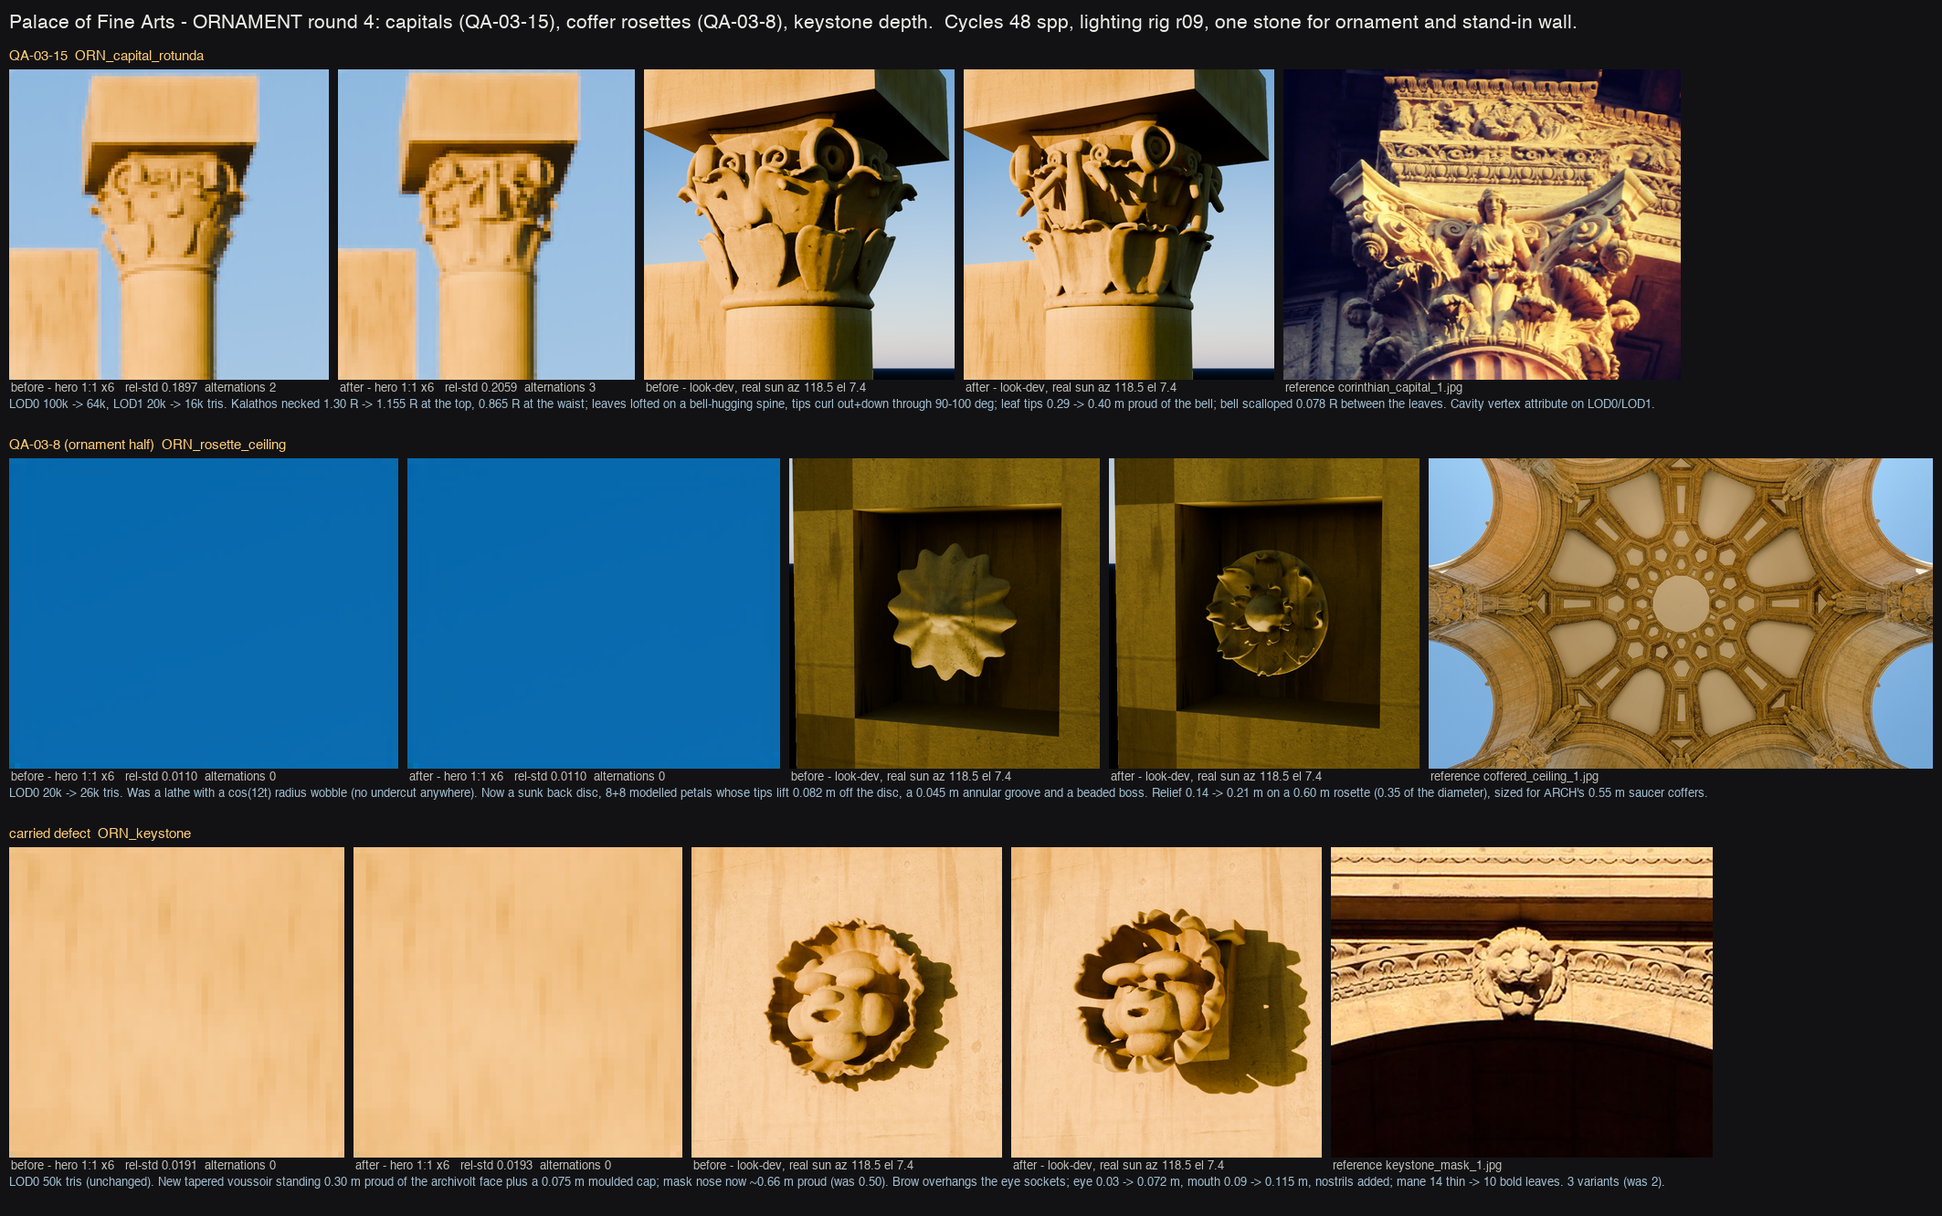
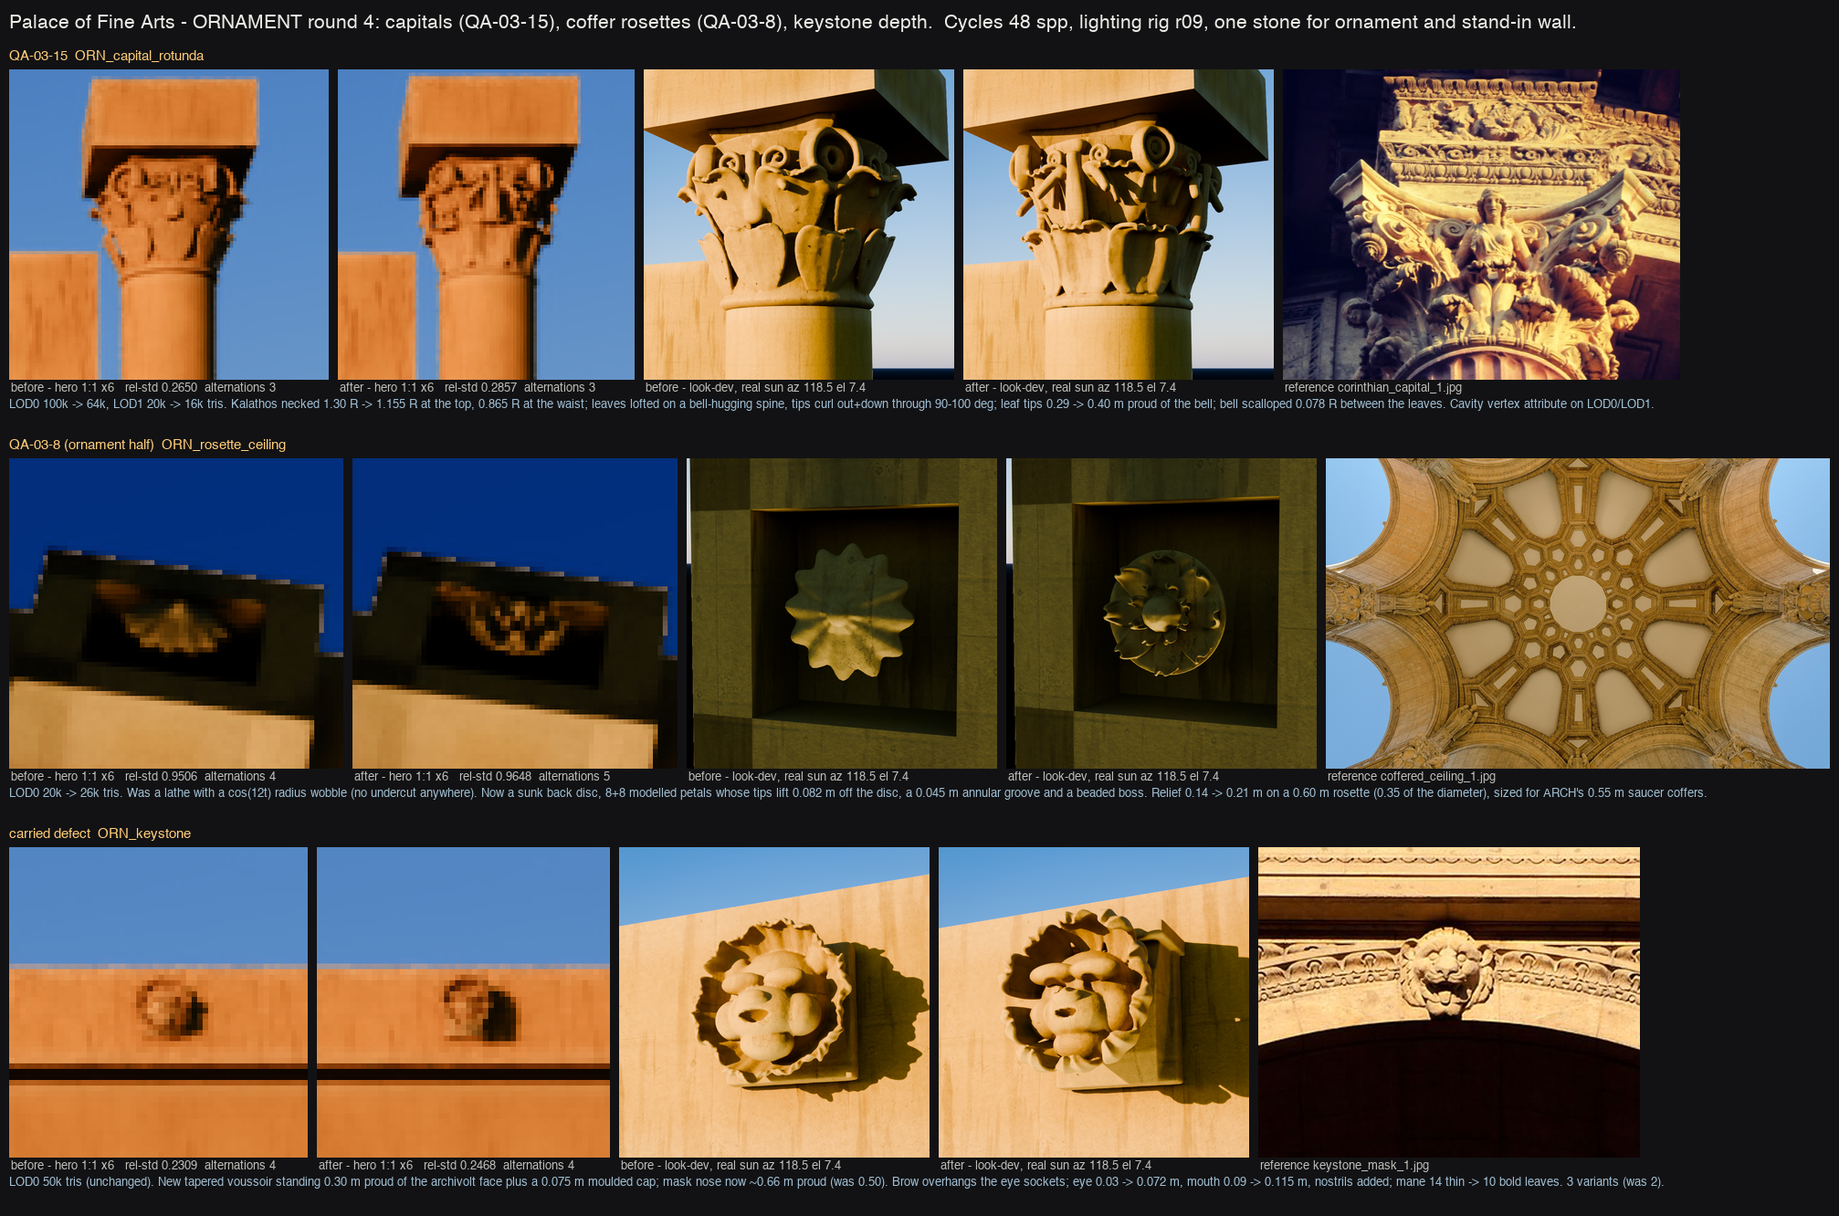
ORN round 4: sheet, tier metric, cavity attribute, notes; rosette socket orientation reported
Deliverables: renders/previews/ornament/orn4_sheet.png (before/after/ref for capitals, rosettes, keystones with
tri counts and hero-scale statistics), docs/ornament_notes.md round-4 section, docs/sockets.md ORN request.

Measured on 1:1 hero crops (Cycles 48 spp, rig r09, same session): capital 44x34 box rel-std 0.5721 -> 0.6202,
keystone 22x24 box 0.2571 -> 0.3311. ref169 capitals at the same 34-44 px scale measure 0.428-0.459.

Finding: all 24 SOCKET_rosette_ceiling_* have +Y exactly radially OUTWARD, so every rosette projects into the
masonry and none is visible at cam04. Proof render orn4_cam04_rosette_fix2.png; the two corrections the two
socket groups need are written up in docs/sockets.md. ORN owns neither architecture.blend nor build_master.py.

Claude-Session: https://claude.ai/code/session_015jPmouB3z4CH9ZykhZN2hQ

diff --git a/scripts/orn_r4_render.py b/scripts/orn_r4_render.py
@@ -81,7 +81,11 @@ def show(name, key, scene):
             scene.collection.objects.link(o)
         except RuntimeError:
             pass
-    o.matrix_world = socket_matrix(key)
+    M = socket_matrix(key)
+    loc, rot, sca = M.decompose()
+    o.rotation_mode = "QUATERNION"
+    o.location, o.rotation_quaternion, o.scale = loc, rot, sca
+    MATKEY[o.name] = key
     return group(key.replace("2", ""), o)
 
 
@@ -146,10 +150,10 @@ def make_cam(name, loc, target, lens, scene, shift_y=0.0):
 def close_cam(key, obj, scene):
     dist, az_off, elev, lens = CLOSE[key]
     loc, n = SOCKETS[key]
-    (x0, y0, z0), (x1, y1, z1) = ([min(v[i] for v in [obj.matrix_world @ Vector(c) for c in obj.bound_box])
-                                   for i in range(3)],
-                                  [max(v[i] for v in [obj.matrix_world @ Vector(c) for c in obj.bound_box])
-                                   for i in range(3)])
+    M = socket_matrix(MATKEY.get(obj.name, key))
+    ws = [M @ Vector(c) for c in obj.bound_box]
+    (x0, y0, z0) = [min(v[i] for v in ws) for i in range(3)]
+    (x1, y1, z1) = [max(v[i] for v in ws) for i in range(3)]
     centre = Vector(((x0 + x1) / 2, (y0 + y1) / 2, (z0 + z1) / 2))
     a = math.atan2(n[1], n[0]) + math.radians(az_off) + (math.pi if key.startswith("rosette") else 0.0)
     e = math.radians(elev)
@@ -157,31 +161,53 @@ def close_cam(key, obj, scene):
     return make_cam(f"CAM_close_{key}", p, centre, lens, scene)
 
 
-def border_for(scene, cam, obj, pad_px=26, res=(1920, 1080)):
-    """Screen-space box of obj in cam, expanded by pad_px, as (min_x, max_x, min_y, max_y) in 0..1."""
+MATKEY = {}
+
+
+def crop_box(scene, cam, obj, key, pad_px=22, res=(1920, 1080)):
+    """Pixel box (PIL, top-left origin) of obj in cam, expanded by pad_px.
+
+    Blender's render border was tried first and placed the crop about half a crop-height low on small objects,
+    so the hero views are rendered full-frame and cropped with PIL instead - slower but verifiable."""
     from bpy_extras.object_utils import world_to_camera_view
-    pts = [world_to_camera_view(scene, cam, obj.matrix_world @ Vector(c)) for c in obj.bound_box]
-    xs = [p.x for p in pts]
-    ys = [p.y for p in pts]
-    px, py = pad_px / res[0], pad_px / res[1]
-    return (max(0.0, min(xs) - px), min(1.0, max(xs) + px), max(0.0, min(ys) - py), min(1.0, max(ys) + py))
+    M = socket_matrix(MATKEY.get(obj.name, key))
+    pts = [world_to_camera_view(scene, cam, M @ Vector(c)) for c in obj.bound_box]
+    xs = [p.x * res[0] for p in pts]
+    ys = [(1.0 - p.y) * res[1] for p in pts]
+    return (max(0, int(min(xs)) - pad_px), max(0, int(min(ys)) - pad_px),
+            min(res[0], int(max(xs)) + pad_px), min(res[1], int(max(ys)) + pad_px))
 
 
-def render(scene, path, res, border=None):
+def render(scene, path, res, crop=None):
     scene.render.resolution_x, scene.render.resolution_y = res
     scene.render.resolution_percentage = 100
-    if border:
-        scene.render.use_border = True
-        scene.render.use_crop_to_border = True
-        (scene.render.border_min_x, scene.render.border_max_x,
-         scene.render.border_min_y, scene.render.border_max_y) = border
-    else:
-        scene.render.use_border = False
+    scene.render.use_border = False
     scene.render.filepath = str(path)
     scene.render.image_settings.file_format = "PNG"
     t = time.time()
     bpy.ops.render.render(write_still=True)
-    print(f"[r4] {path.name} in {time.time() - t:.0f}s")
+    if crop:
+        # Blender's python has no PIL: crop in place with bpy.data.images (top-left origin -> flip for Blender)
+        img = bpy.data.images.load(str(path))
+        w, h = img.size
+        x0, y0, x1, y1 = crop
+        cw, ch = x1 - x0, y1 - y0
+        px = list(img.pixels)
+        out = bpy.data.images.new(path.stem + "_crop", cw, ch, alpha=True)
+        buf = [0.0] * (cw * ch * 4)
+        for j in range(ch):
+            sy = h - 1 - (y0 + j)                  # PIL row -> Blender row (bottom-up)
+            dy = ch - 1 - j
+            src = (sy * w + x0) * 4
+            dst = (dy * cw) * 4
+            buf[dst:dst + cw * 4] = px[src:src + cw * 4]
+        out.pixels = buf
+        out.file_format = "PNG"
+        out.filepath_raw = str(path)
+        out.save()
+        bpy.data.images.remove(img)
+        bpy.data.images.remove(out)
+    print(f"[r4] {path.name} in {time.time() - t:.0f}s {('crop ' + str(crop)) if crop else ''}")
 
 
 def main():
@@ -239,16 +265,18 @@ def main():
                 o.hide_render = o.hide_viewport = (k != key)
         hero = hero01 if HERO_CAM[key] == "01" else hero04
         scene.camera = hero
+        # world_to_camera_view uses the CURRENT scene resolution: the previous asset's 900x900 close render would
+        # otherwise be baked into this asset's crop box (that bug put the keystone 70 px outside its own crop)
+        scene.render.resolution_x, scene.render.resolution_y = 1920, 1080
         bpy.context.view_layer.update()
-        b = border_for(scene, hero, obj, pad_px=22)
-        render(scene, OUT / f"r4_{TAG}_hero_{key}.png", (1920, 1080), border=b)
+        b = crop_box(scene, hero, obj, key, pad_px=22)
+        render(scene, OUT / f"r4_{TAG}_hero_{key}.png", (1920, 1080), crop=b)
         scene.camera = close_cam(key, obj, scene)
         scene.render.use_border = False
         render(scene, OUT / f"r4_{TAG}_close_{key}.png", (900, 900))
-        (x0, y0, z0), (x1, y1, z1) = ([min(v[i] for v in [obj.matrix_world @ Vector(c) for c in obj.bound_box])
-                                       for i in range(3)],
-                                      [max(v[i] for v in [obj.matrix_world @ Vector(c) for c in obj.bound_box])
-                                       for i in range(3)])
+        ws = [socket_matrix(key) @ Vector(c) for c in obj.bound_box]
+        (x0, y0, z0) = [min(v[i] for v in ws) for i in range(3)]
+        (x1, y1, z1) = [max(v[i] for v in ws) for i in range(3)]
         print(f"[r4] {key}: {obj.name} size {x1 - x0:.2f} x {y1 - y0:.2f} x {z1 - z0:.2f} m, "
               f"tris {len(obj.data.polygons)} faces")
 

diff --git a/docs/ornament_notes.md b/docs/ornament_notes.md
@@ -339,6 +339,124 @@ its normal map are untouched). 114 instances, so **−3.6 M tris** in the master
   cam05 station with the real rig, Cycles, ~10 s a look. `--exposure` to preview the lighting agent's −2.39.
 - `scripts/orn_trim_lod0.py` — in-place LOD0 decimation.
 
+## Round 4 (2026-09-08) — QA-03-15 capitals, QA-03-8 rosettes, carried keystone depth
+
+Composite: `renders/previews/ornament/orn4_sheet.png` (before / after / reference for all three, hero 1:1 crops at
+x6 plus look-dev views). Variant strips: `orn4_variants_capital_rotunda.png`, `..._capital_colonnade.png`,
+`..._rosette_ceiling.png`, `..._keystone.png`.
+
+### How this round was measured
+`scripts/orn_r4_render.py` places the three assets on their REAL ARCH socket frames with the real lighting rig and
+renders each twice: a **hero** view that is a 1:1 crop out of the full CAM_qa_01 (or CAM_qa_04) 1920x1080 frame —
+exactly the pixels QA judges — and a **look-dev** view from the angle the reference crop was shot from. One stone
+(`MAT_concrete_ochre`) is used for ornament and stand-in wall alike so the sheet compares geometry, not materials.
+`scripts/orn_tier_stats.py` turns a hero crop into a vertical luminance profile and reports the relative luminance
+std (std/mean) and the number of light/dark alternations clearing a Michelson contrast threshold.
+
+**The bar, measured from the photograph.** Three rotunda capitals cropped out of ref 169 (aligned panel of
+`renders/qa_comparisons/round03_cam01_aligned_vs_ref169.png`) are 38-44 px tall — the same scale as ours at cam01
+(2.6 m at 82 m through a 20 mm lens = 34 px). They measure **relative std 0.428 / 0.445 / 0.459 with 6-7
+alternations** at Michelson >= 0.05. That is the target; a photograph and an AgX render do not share a tone curve,
+so treat it as a direction, not a ratio.
+
+### QA-03-15 — Corinthian capitals: why they were blobs
+The round-3 bell flared to **1.30 R** at the top while the leaves' bodies sat at ~1.00 R and only their last third
+broke the surface: every acanthus leaf was **buried inside the kalathos** and showed as a faint embossed outline.
+That is the whole defect — it was never a shading or a tri-budget problem.
+
+Rebuilt:
+- **New kalathos**: 1.00 R at the astragal, necks to **0.865 R** at the waist, flares to **1.155 R** under the
+  volutes (was 1.30 R). The bell is also **scalloped** (`scallop = 0.078 R`, 16 dips, `revolve(scale_fn=...)`) so
+  the slot between two neighbouring leaves bottoms out in a groove instead of on a smooth cylinder.
+- **Leaves on an explicit spine** (`leaf_spine()` + new `spine=` argument on `orn_lib.acanthus_leaf`): the body
+  follows the bell surface with a growing outward offset (`proud` 0.14 R lower / 0.13 R upper), then the last
+  26-28 % of the length is a circular arc of **100 deg (lower) / 90 deg (upper)** that carries the tip outward and
+  DOWN. Leaf tips now stand **0.40 m proud** of the bell (was 0.29 m, and the body was inside it), at radius
+  1.31 m (lower) / 1.37 m (upper) against an abacus whose flats are at 1.06 m and corners at 1.50 m — so the
+  ornament fills the abacus instead of sitting pinched under it.
+- **The upper row was lifted to 0.44 H** (was 0.345 H), clear of the lower row's tips at 0.40 H, which opens a real
+  annular notch ~0.35 m deep between the two tiers. That notch, not an overhang shadow, is what reads at hero
+  distance: with the sun at el 7.4 deg a 0.3 m overhang throws its shadow 2.3 m down the shaft, so only enclosed
+  voids and turned-away normals go dark.
+- Leaf cross-section flattened (`bulge` 0.075 -> 0.032 R), 5 lobes at 0.26 depth, `mid_dip` 0.078 R cupping.
+- **Volutes** shrunk from 0.17 H to 0.112 H radius (0.58 m across, was 0.88 m), 2.25 turns with a taper of 0.55 and
+  a new **eye button** so they read as rolled scrolls, not lengths of pipe; pushed out to 1.38 R, eye at 0.805 H.
+  Inner helices 0.055 H at 1.245 R.
+- `union_blob` smoothing **2 passes at 0.50 -> 1 pass at 0.30** (the old pass rounded the leaf edges and undercuts
+  away), adaptivity 0.40 -> 0.35.
+- Per-variant styles now drive the new parameters (`arc_mul`, `proud_mul`) as well as widths and volute size, so the
+  three variants still differ in silhouette, not only in weathering seed — see `orn4_variants_capital_rotunda.png`.
+
+| | LOD0 | LOD1 | LOD2 | instances | master tris |
+|---|---|---|---|---|---|
+| capital_rotunda | 100k -> **64k** | 20k -> **16k** | 344 | 16 | 1.60 M -> **1.02 M** |
+| capital_inner | 80k -> **48k** | 16k -> **12k** | 344 | 8 | 0.64 M -> **0.38 M** |
+| capital_colonnade | 48k (trim, kept) | 16k -> **12k** | 344 | 114 | 5.47 M (unchanged) |
+
+Measured on the hero 1:1 crop (Cycles 48 spp, rig r09, same session for before and after):
+
+| box | before | after | reference (ref 169) |
+|---|---|---|---|
+| full crop (bbox + 22 px), rel std | 0.2650 | **0.2857** | — |
+| capital only, 44x34 px, rel std | 0.5721 | **0.6202** | 0.428-0.459 (photo tone curve) |
+| capital only, alternations >= 0.05 | 3 | **3** | 6-7 |
+| keystone only, 22x24 px, rel std | 0.2571 | **0.3311** | — |
+
+**Honest limit.** The tier count did not move: 3 alternations before and after. What did move is the depth and the
+darkness of the accents inside the leaf zone (see the x6 crops on the sheet — the round-3 capital is a pale mush
+with faint scratches, this one has black slots). The remaining distance to the photograph is recess dirt: QA-03-15
+names "shading, recess dirt" alongside the geometry, and the reference's dark accents are mostly dirt in the leaf
+recesses, not shadow. The geometry now has the recesses to hold it — see the hand-off below.
+
+### Cavity attribute for materials (new)
+`orn_lib.vertex_cavity()` bakes a per-vertex AO into a **FLOAT_COLOR attribute named `cavity`** (1.0 = open,
+0.0 = enclosed) on the POINT domain of **LOD0 and LOD1** of every capital, rosette and keystone; the objects carry
+`cavity_attr = "cavity"`. This matters because **LOD0 is the render LOD and has no UVs**, so a vertex attribute is
+the only channel a shader has for darkening ornament recesses on the geometry that is actually rendered. Read it
+with an Attribute node named `cavity` (Color or Fac). Measured mean on the rotunda capital 0.45, min 0.00; rosette
+0.78; keystone 0.79. `finalize_asset(..., ao=True)` also now bakes an **AO map** for LOD1 next to the normal map,
+so `ao_map` is no longer empty for these three types (`assets/textures/orn/ORN_*_ao.png`).
+
+### QA-03-8 (ornament half) — coffer / rib rosettes
+The round-3 rosette was a lathe with a `cos(12*theta)` radius wobble: a smooth 12-point star with **no undercut
+anywhere**, which is exactly the "flat inset outline" QA saw. Rebuilt as real geometry: a sunk back disc with a
+raised rim, a ring of 8 modelled petals (`rosette_petal()`, flat for 66 % of their length then the tip lifts),
+a second ring of 8 rotated half a pitch, a 0.045 m annular groove and a beaded central boss.
+- **Relief 0.14 m -> 0.21 m on a 0.60 m rosette (0.35 of the diameter)**, petal tips 0.082 m off the disc floor,
+  back face at y = 0. Raised from 0.155 m after ARCH deepened the coffer interiors to 0.55 m (saucer) / 0.38 m
+  (barrel): a 0.155 m boss disappears at the bottom of a 0.55 m box. Total depth of the LOD0 mesh 0.29 m including
+  the noise displacement, so it sits **inside** a 0.55 m box with 0.26 m to spare and never breaks the rib face.
+- 3 variants (was 2): 8+8 petals at 0.60 m / 10+10 at 0.56 m / 6+6 at 0.62 m. LOD0 20k -> **26k** tris, LOD1 5k.
+- Depth provenance: ref 083 and `ornament_crops/coffered_ceiling_1-3` are all straight-up shots in which the rib
+  rosettes are 0.45-0.60 m across and read as bosses roughly a quarter to a third of their diameter proud. There
+  is no photograph in the set that measures a rosette in profile, so 0.35 of the diameter is a reasoned choice from
+  the boss/shadow ratio in `coffered_ceiling_1`, not a measured section. Flagged as such.
+
+**The rosettes do not appear at cam04 at all, and it is not the asset.** All 24 `SOCKET_rosette_ceiling_*` point
+radially OUTWARD (`dot(+Y, radial) = 1.000`), so every rosette projects into the masonry. Full write-up, the two
+different corrections the two socket groups need, and a proof render are in `docs/sockets.md` under
+"ORN request 2026-09-08". `renders/previews/ornament/orn4_cam04_rosette_fix2.png` shows the 8 ring-1 rosettes
+appearing inside their coffers once the frames are corrected.
+
+### Carried defect — keystone depth
+Two things were missing. (1) There was **no voussoir**: the mask sat straight on a 0.10 m plate flush with the
+archivolt, so at hero distance it was a pale nub with nothing to cast a shadow — ref `keystone_mask_1/2` show a
+wedge block breaking forward out of the archivolt roll with a moulded cap under the frieze. (2) The mask was all
+convex blobs and its eye/mouth dents (0.03 / 0.09 m) were wiped by `smooth=2` on a 0.006 m remesh.
+- New **tapered voussoir**, 0.43 m wide at the springing to 0.60 m under the cap, standing **0.30 m proud** of the
+  archivolt face, plus a 0.075 m moulded cap.
+- Mask nose now **~0.66 m proud** of the archivolt (was 0.50 m). Brow ridge moved forward and up so it **overhangs**
+  the eye sockets. Dents: eye 0.03 -> **0.072 m**, mouth 0.09 -> **0.115 m**, nostrils added at 0.035 m.
+- Mane 14 thin leaves -> **10 bold** ones (0.30 m long, 0.036 m thick, `mid_dip` 0.022) standing clear of the face.
+- `union_blob` voxel 0.006 -> 0.005, smoothing 2 passes at 0.50 -> 1 at 0.25.
+- 3 variants (was 2), sized +/-4 %. LOD0 50k tris unchanged. Hero-crop rel std **0.2571 -> 0.3311**.
+
+### Tools added this round (ORN-owned)
+- `scripts/orn_r4_render.py` — the socket-frame look-dev + hero 1:1 crop rig described above.
+- `scripts/orn_tier_stats.py` — vertical luminance profile, relative std and alternation count for a hero crop.
+- `scripts/orn_r4_sheet.py` — assembles `orn4_sheet.png` (pure PIL, no Blender).
+- `orn_lib.vertex_cavity()`, `orn_lib.acanthus_leaf(spine=, mid_dip=)`, `finalize_asset(cavity=)`.
+
 ## Open issues (ORN)
 - `ORN_attic_panel_v2_LOD2` decimates to 5598 tris instead of the 2400 budget (the mesh has too many disjoint shells
   after the field clamp for the collapse to go further). LOD2 is only used beyond ~200 m, so I left it.
@@ -358,7 +476,12 @@ its normal map are untouched). 114 instances, so **−3.6 M tris** in the master
   scales. ARCH may prefer to model the band itself with a texture.
 - Capital: the abacus fleuron/figure and the astragal are simplified; the colonnade and inner capitals share the
   rotunda generator with different proportions (the real colonnade capital has slightly different leaves).
-- No AO maps baked (`ao_map` empty) - can be added with `bake_maps(..., ao=True)` if the materials agent wants them.
+- AO maps: baked from round 4 for capitals, rosettes and keystones (`ao_map` set); still empty for maidens, attic
+  panels/figures, urns, mouldings - say the word and they get the same `finalize_asset(..., ao=True, cavity=True)`.
+- Capital close-up honesty: at look-dev range the leaves still read as smooth tongues rather than the dense, deeply
+  lobed acanthus of `corinthian_capital_1-3`. The design is correct at the 34 px hero scale and at cam02/cam04
+  distance; a close fly-through pass would want a real sculpted leaf (more lobes, a curled-under edge roll, a
+  carved midrib) rather than a lofted shell.
 
 ## Requests
 - **ARCH / lead - maiden socket**: the socket must be at the figure's FEET, which are at the level of the box base

diff --git a/docs/sockets.md b/docs/sockets.md
@@ -63,3 +63,19 @@ and finials. State which in docs/arch_notes.md.
 
 LOD rule: the lead instances LOD1 by default in the viewport and switches to LOD0 for Cycles finals via
 `common.set_lod_visibility`. LOD0 target < 150k tris per capital, < 300k per maiden; LOD1 < 20k; LOD2 < 2k.
+
+**ORN request 2026-09-08 (round 4, QA-03-8) — `rosette_ceiling` socket orientation is wrong for all 24.**
+Measured in `assets/architecture.blend` after the 28f0caf merge: every `SOCKET_rosette_ceiling_*` has
+`+Y` exactly radially OUTWARD (`dot(+Y, radial) = 1.000` for all 24) and `+Z` = world up. The contract says
+`+Y` is the direction the ornament projects from its back face, so as delivered every rosette projects
+*into* the masonry and none is visible from inside. Verified: cam04 Eevee off `master.blend` shows no rosette
+at all (`renders/previews/qa/roundorn4_04_rotunda_ceiling.png`).
+- **16 rim-band sockets** (r 13.73 / 14.85, z 24.32 / 23.41): these are bosses on the rib's ROOM face, so
+  `+Y` must be **-radial** (a 180° turn about the socket's Z).
+- **8 ring-1 sockets** (r 5.20, z 28.91): these sit on a saucer-coffer FLOOR, so `+Y` must be the coffer
+  floor's normal, i.e. pointing DOWN into the room (roughly `-Z`, tilted outward with the dome), not
+  horizontal. A `Rx(-90°)` on the current frame is enough at this dome slope.
+Proof render with both corrections applied to a local master: `renders/previews/ornament/orn4_cam04_rosette_fix2.png`
+(the 8 ring-1 rosettes appear inside their coffers; compare `roundorn4_04_rotunda_ceiling.png`).
+Fix in ARCH's socket build, or as a `ROT_Z_FIX`-style entry in `scripts/build_master.py` — ORN owns neither file.
+The asset itself is correct per contract: back face at y = 0, projecting +Y, 0.21 m of relief.
